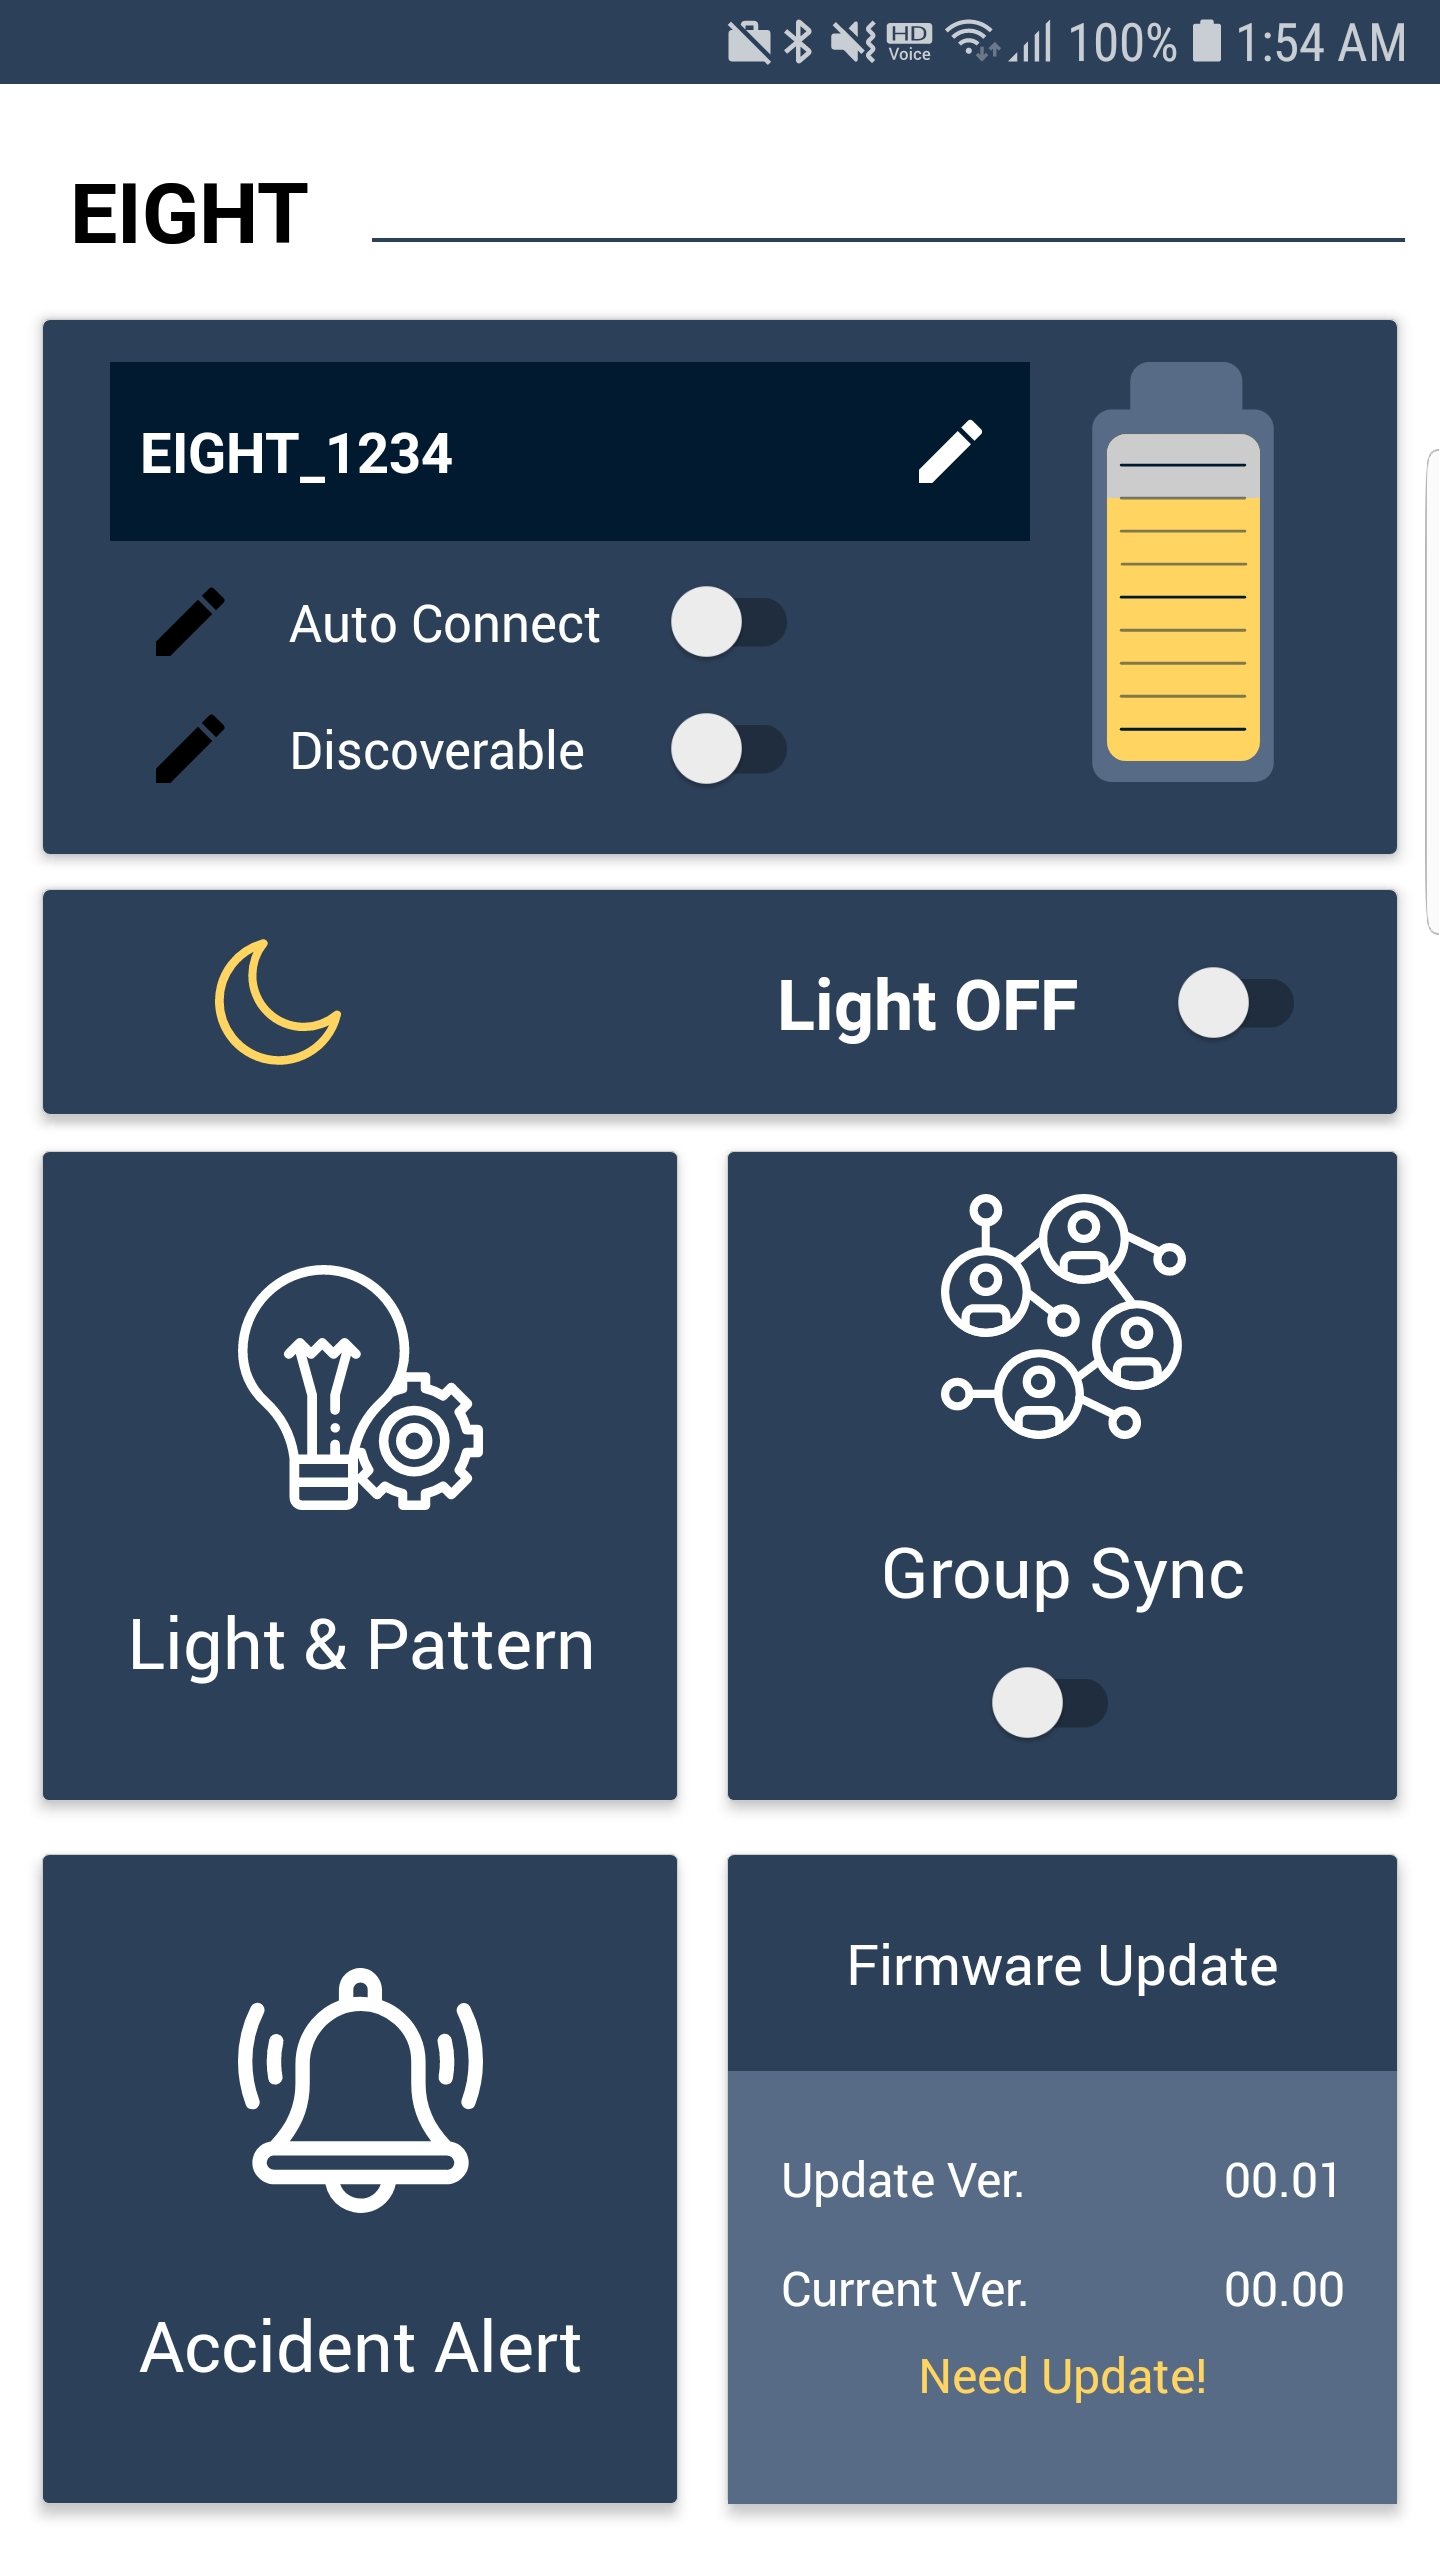
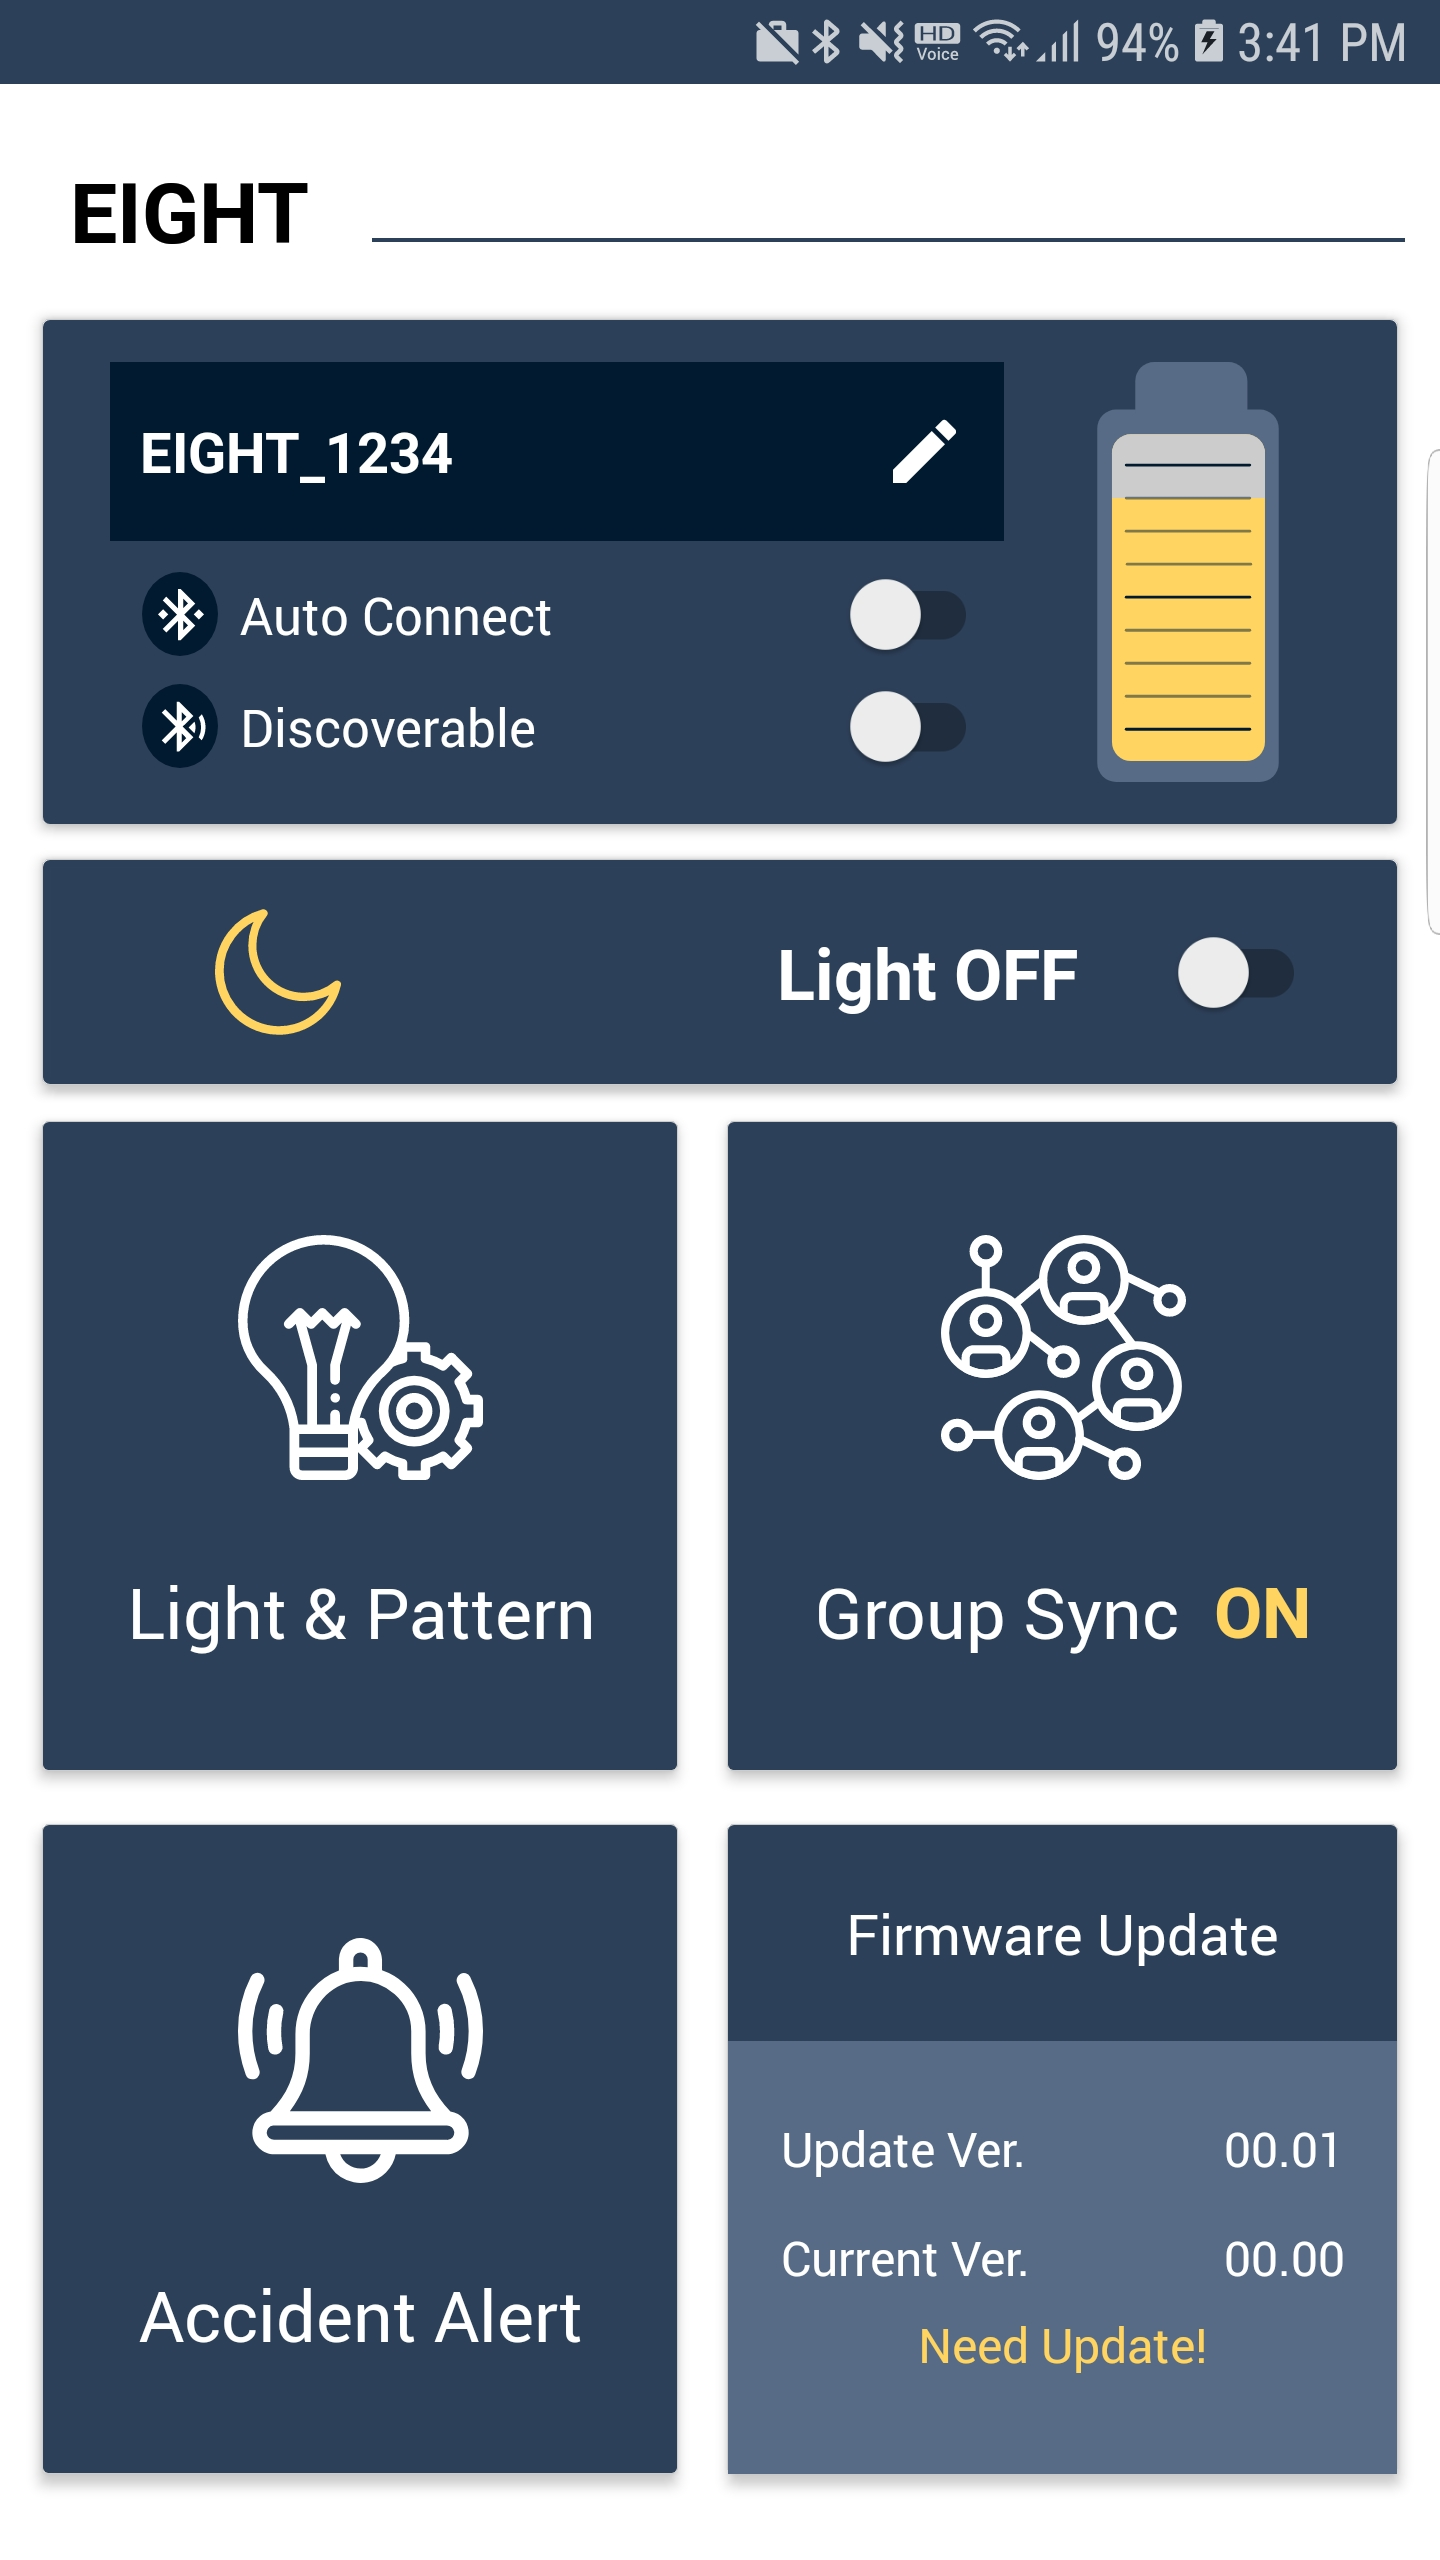
modify home layout

diff --git a/Home.js b/Home.js
@@ -17,7 +17,7 @@ import BatteryTick from './components/BatteryTick';
 
 import { COLOR_PRIMARY, COLOR_SECONDARY, COLOR_PRIMARY_DARK, COLOR_PRIAMRY_LIGHT,
  	DIALOG_OK, DIALOG_CLOSE,
-	APP_NAME, AUTO_CONNECT, DISCOVERABLE, LIGHT_ON, LIGHT_OFF,
+	APP_NAME, AUTO_CONNECT, DISCOVERABLE, LIGHT_ON, LIGHT_OFF, GROUP_SYNC_ON, GROUP_SYNC_OFF,
 	HOME_LIGHT_PATTERN, HOME_GROUP_SYNC, HOME_ACCIDENT_ALERT, HOME_FIRMWARE_UPDATE, FIRMWARE_NEED_UPDATE,
 	FIRMWARE_UPDATE_VER, FIRMWARE_CURRENT_VER, FIRMWARE_UPDATE_WAITING,
 	flexColumn, flexRow, vCenterRow, spaceComponent }
@@ -28,6 +28,8 @@ import MainAccident from './public/icon/MainAccident';
 import MainGroup from './public/icon/MainGroup';
 import LightOn from './public/icon/LightOn';
 import LightOff from './public/icon/LightOff';
+import Discoverable from './public/icon/Discoverable';
+import Autoconnect from './public/icon/Autoconnect';
 
 const deviceSize = Dimensions.get('window');
 
@@ -51,6 +53,8 @@ class Home extends Component {
 			updateVersion: '00.01', // be set from device
 			currentVersion: '00.00', // be set from device
 			batteryTick: 7, // be set from device
+			groupSyncState: GROUP_SYNC_OFF,
+			groupSyncBkg: COLOR_SECONDARY,
 		};
 
 		this.goToPattern.bind(this);
@@ -127,19 +131,18 @@ class Home extends Component {
 						<CardItem style={{justifyContent:"space-between", backgroundColor: COLOR_PRIMARY}}>
 							<Grid>
 								<Col size={3}>
-									<Item style={{backgroundColor: COLOR_SECONDARY, borderColor: COLOR_SECONDARY}}regular>
+									<Item style={{backgroundColor: COLOR_SECONDARY, borderColor: COLOR_SECONDARY}} regular>
 										<Input style={styles.deviceInput} />
 										<Icon style={[spaceComponent, {color: 'white', backgroundColor: COLOR_SECONDARY}]}
 											name="md-create" />
 									</Item>
 									<Grid style={{marginLeft: 10, marginTop: 5}}>
-										<Row>
-											<Icon style={spaceComponent}
-												name="md-create" />
+										<Row style={{alignItems: 'center'}}>
+											<Autoconnect />
 											<Col style={vCenterRow}>
 												<Text style={styles.bluetoothOptionsText}>{AUTO_CONNECT}</Text>
 											</Col>
-											<Col style={vCenterRow}>
+											<Col style={[vCenterRow, {justifyContent: 'flex-end'}]}>
 												<Switch value={this.state.autoConnectToggle}
 													onValueChange={
 														(value) => {
@@ -149,13 +152,12 @@ class Home extends Component {
 											</Col>
 										</Row>
 
-										<Row>
-											<Icon style={spaceComponent}
-												name="md-create" />
+										<Row style={{alignItems: 'center'}}>
+											<Discoverable />
 											<Col style={vCenterRow}>
 												<Text style={styles.bluetoothOptionsText}>{DISCOVERABLE}</Text>
 											</Col>
-											<Col style={vCenterRow}>
+											<Col style={[vCenterRow, {justifyContent: 'flex-end'}]}>
 												<Switch value={this.state.discoverableToggle}
 													onValueChange={
 														(value) => {
@@ -166,7 +168,7 @@ class Home extends Component {
 										</Row>
 									</Grid>
 								</Col>
-								<Col size={1}>
+								<Col size={1} style={{paddingLeft: 10}}>
 									<View style={{alignItems: 'center'}}>
 										<BatteryTick tick={this.state.batteryTick} />
 									</View>
@@ -230,39 +232,30 @@ class Home extends Component {
 								</TouchableOpacity>
 							</Col>
 							<Col>
-								<View style={{paddingBottom: 5}}>
-									<Card style={styles.container}>
-										<CardItem style={styles.cardItem}>
-											<View style={[flexColumn, {alignItems: 'center'}]}>
-												<MainGroup />
-											</View>
-										</CardItem>
-										<CardItem style={[flexColumn, styles.cardItem]}>
-											<Grid style={[{alignItems: 'center'}]}>
-												<Row>
-													<Text style={[styles.cardTitle, {height:50}]}>{HOME_GROUP_SYNC}</Text>
-												</Row>
-												<Row>
-													<Switch style={{marginTop: 40}} value={this.state.lightSync}
-														onValueChange={
-															(value) => {
-																this.setState({
-																	lightSync: value
-																});
-															}
-														} />
-												</Row>
-											</Grid>
-											<View style={flexRow}>
-
-											</View>
-											<View style={flexRow}>
-
-
-											</View>
-										</CardItem>
-									</Card>
-								</View>
+								<TouchableOpacity onPress={() => {
+									let changeSyncState = this.state.groupSyncState == GROUP_SYNC_ON ? GROUP_SYNC_OFF : GROUP_SYNC_ON;
+									let cahngeSyncBkg = this.state.groupSyncState == GROUP_SYNC_ON ? COLOR_SECONDARY : COLOR_PRIMARY;
+									this.setState({
+										groupSyncState: changeSyncState,
+										groupSyncBkg: cahngeSyncBkg,
+									});
+								}} activeOpacity={1}>
+									<View style={{paddingBottom: 5}}>
+										<Card style={[styles.container, {backgroundColor: this.state.groupSyncBkg}]}>
+											<CardItem style={[styles.cardItem, {backgroundColor: this.state.groupSyncBkg}]}>
+												<View style={[flexColumn, {alignItems: 'center'}]}>
+													<MainGroup />
+												</View>
+											</CardItem>
+											<CardItem style={[styles.cardItem, {backgroundColor: this.state.groupSyncBkg}]}>
+												<View style={[flexRow, {justifyContent: 'center'}]}>
+													<Text style={styles.cardTitle}>{HOME_GROUP_SYNC}</Text>
+													<Text style={[styles.groupToggleText, {marginLeft:10}]}>{this.state.groupSyncState}</Text>
+												</View>
+											</CardItem>
+										</Card>
+									</View>
+								</TouchableOpacity>
 							</Col>
 						</Row>
 						<Row>
@@ -391,6 +384,12 @@ const styles = StyleSheet.create({
 		textAlign: 'center',
 	},
 
+	groupToggleText: {
+		fontSize: 25,
+		color: '#ffd460',
+		fontWeight: 'bold'
+	},
+
 	firmwareTitle: {
 		fontSize: 20,
 		color: 'white',
@@ -419,6 +418,7 @@ const styles = StyleSheet.create({
 	},
 
 	bluetoothOptionsText : {
+		margin: 5,
 		fontSize: 18,
 		color: 'white'
 	},

diff --git a/public/icon/Discoverable.js b/public/icon/Discoverable.js
@@ -1,0 +1,29 @@
+import React, {Component} from 'react';
+import PropTypes from 'prop-types';
+import { View } from 'native-base';
+
+import ReactNativeSvgParser from '@target-corp/react-native-svg-parser';
+
+const svgString = `<svg xmlns="http://www.w3.org/2000/svg" viewBox="0 0 66 73"><title>discoverable</title><g id="레이어_2" data-name="레이어 2"><g id="레이어_1-2" data-name="레이어 1"><ellipse class="cls-1" cx="33" cy="36.5" rx="33" ry="36.5"/><path class="cls-2" d="M40.54,37.74l5,5a13.76,13.76,0,0,0,1-5,14,14,0,0,0-.93-5ZM52,26.3,49.25,29a18.68,18.68,0,0,1,2.11,8.68,19,19,0,0,1-2.11,8.68L51.84,49A21.37,21.37,0,0,0,52,26.3Zm-7.36,1.44L32.28,15.41H30.12V31.8l-9.91-9.92-3.05,3.05L29.23,37,17.16,49.07l3.05,3,9.91-9.92V58.59h2.16L44.61,46.26,35.32,37ZM34.44,24.4l4.06,4.06-4.06,4.06ZM38.5,47,34.44,51V42.92Z"/></g></g></svg>
+`
+const cssString = `.cls-1{fill:#011a30;} .cls-2{fill:#fff;}`;
+
+
+
+class Discoverable extends Component {
+	constructor(props) {
+		super(props);
+
+		this.svgNode = ReactNativeSvgParser(svgString, cssString, {width:24, height:24, resizeMode: 'contain'});
+	}
+
+	render() {
+		return (
+			<View>
+				{ this.svgNode }
+			</View>
+		);
+	}
+}
+
+export default Discoverable

diff --git a/public/icon/Autoconnect.js b/public/icon/Autoconnect.js
@@ -1,0 +1,29 @@
+import React, {Component} from 'react';
+import PropTypes from 'prop-types';
+import { View } from 'native-base';
+
+import ReactNativeSvgParser from '@target-corp/react-native-svg-parser';
+
+const svgString = `<svg xmlns="http://www.w3.org/2000/svg" viewBox="0 0 66 73"><title>autoconnect</title><g id="레이어_2" data-name="레이어 2"><g id="레이어_1-2" data-name="레이어 1"><ellipse class="cls-1" cx="33" cy="36.5" rx="33" ry="36.5"/><path class="cls-2" d="M22.71,36.85l-4.44-4.44-4.45,4.44,4.45,4.45Zm23.51-9.38L33.54,14.78H31.31V31.64l-10.2-10.2L18,24.58,30.4,37,18,49.42l3.13,3.14,10.2-10.2V59.22h2.23L46.22,46.53,36.67,37ZM35.76,23.14l4.18,4.18L35.76,31.5Zm4.18,23.25-4.18,4.17V42.21Zm9.44-14-4.45,4.44,4.45,4.45,4.44-4.45Z"/></g></g></svg>
+`
+const cssString = `.cls-1{fill:#011a30;} .cls-2{fill:#fff;}`;
+
+
+
+class Autoconnect extends Component {
+	constructor(props) {
+		super(props);
+
+		this.svgNode = ReactNativeSvgParser(svgString, cssString, {width:24, height:24, resizeMode: 'contain'});
+	}
+
+	render() {
+		return (
+			<View>
+				{ this.svgNode }
+			</View>
+		);
+	}
+}
+
+export default Autoconnect

diff --git a/style/common.js b/style/common.js
@@ -24,6 +24,8 @@ export const HOME_GROUP_SYNC = 'Group Sync';
 export const HOME_ACCIDENT_ALERT = 'Accident Alert';
 export const HOME_FIRMWARE_UPDATE = 'Firmware Update';
 export const UPDATE_DIALOG_TITLE_TEXT = 'Firmware Update';
+export const GROUP_SYNC_ON = 'ON';
+export const GROUP_SYNC_OFF = 'OFF';
 export const FIRMWARE_NEED_UPDATE = 'Need Update!';
 export const FIRMWARE_UPDATE_VER = 'Update Ver.';
 export const FIRMWARE_CURRENT_VER = 'Current Ver.';
